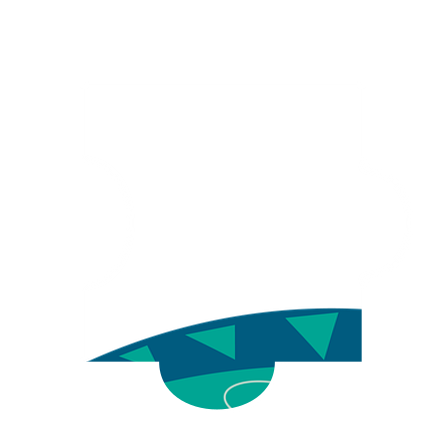
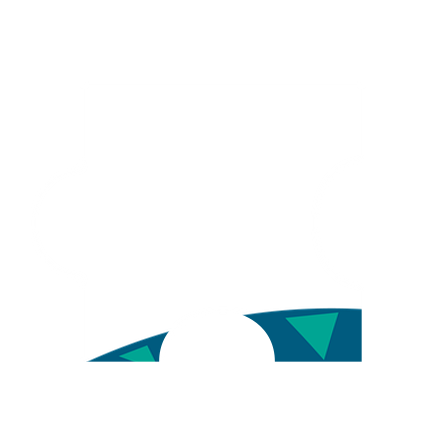
Go ahead

Changed region(s): [[0.3594, 0.7189, 0.659, 0.9585]]

diff --git a/App.tsx b/App.tsx
@@ -7,7 +7,7 @@ import {
   ImageSourcePropType,
   Text,
   TouchableOpacity,
-  Vibration
+  Vibration,
 } from 'react-native';
 import {
   GestureHandlerRootView,
@@ -24,11 +24,10 @@ import Animated, {
   withTiming,
   interpolate,
   withSequence,
-  // --- CAMBIO (Stagger/Lag): Importar 'withDelay' ---
   withDelay,
 } from 'react-native-reanimated';
 import LinearGradient from 'react-native-linear-gradient';
-import ConfettiCannon from 'react-native-confetti-cannon'; // Importar Confeti
+import ConfettiCannon from 'react-native-confetti-cannon';
 
 // --- (Carga de Assets: Dinámica) ---
 import * as LevelAssets from './assets/puzzles/mundo1/nivel1/level.assets.js';
@@ -82,7 +81,7 @@ const shuffleArray = (array: any[]) => {
   return newArray;
 };
 
-// --- (Componente PuzzlePiece: Sin cambios) ---
+// --- (Componente PuzzlePiece: CON BUGFIX DEL REGRESO) ---
 interface PuzzlePieceProps {
   piece: PieceDataWithLayout;
   isPlaced: boolean;
@@ -119,7 +118,10 @@ const PuzzlePiece: React.FC<PuzzlePieceProps> = ({
   const rotate = useSharedValue('0deg');
   const glow = useSharedValue(0); 
   const isSnapped = useSharedValue(isPlaced);
-   const shake = useSharedValue(0); // <-- AÑADE ESTA LÍNEA
+  const shake = useSharedValue(0); 
+  
+  // --- BUGFIX DEL REGRESO: Nuevo estado para el "limbo" de regreso ---
+  const isReturning = useSharedValue(false);
 
   useEffect(() => {
     if (isPlaced) {
@@ -129,7 +131,8 @@ const PuzzlePiece: React.FC<PuzzlePieceProps> = ({
       rotate.value = withSpring('0deg');
       isSnapped.value = true; 
     } else {
-      if (!isDragging.value) {
+      // Si no estamos arrastrando Y no estamos volviendo... resetea
+      if (!isDragging.value && !isReturning.value) {
         position.value = withSpring({ x: initialX, y: initialY });
         scale.value = withSpring(stripScale);
         zIndex.value = 10;
@@ -152,6 +155,7 @@ const PuzzlePiece: React.FC<PuzzlePieceProps> = ({
     rotate,
     glow,
     isSnapped,
+    isReturning, // <-- Añadir dependencia
   ]);
 
   const gesture = Gesture.Pan()
@@ -183,6 +187,7 @@ const PuzzlePiece: React.FC<PuzzlePieceProps> = ({
         Math.pow(finalX - targetX, 2) + Math.pow(finalY - targetY, 2),
       );
       if (dist < SNAP_THRESHOLD) {
+        // ... (Lógica de Snap, sin cambios)
         isSnapped.value = true; 
         position.value = withSpring({ x: targetX, y: targetY });
         zIndex.value = 1;
@@ -198,42 +203,63 @@ const PuzzlePiece: React.FC<PuzzlePieceProps> = ({
           withTiming(0, { duration: 300 })
         );
       } else {
-         // --- NUEVO: Feedback SECUENCIAL (Vibrar, LUEGO regresar) ---
-        
-      
-        
+        // --- BUGFIX DEL REGRESO (CON SINTAXIS CORREGIDA) ---
         runOnJS(Vibration.vibrate)(100);
-        zIndex.value = 10; 
+        zIndex.value = 10;
+        isReturning.value = true; // 1. Activa el modo "regresando"
 
         const SHAKE_AMOUNT = 10;
         const SHAKE_DURATION = 60;
         
-        shake.value = withSequence(
-          // ...las primeras 3 animaciones del shake...
-          withTiming(-SHAKE_AMOUNT, { duration: SHAKE_DURATION }),
-          withTiming(SHAKE_AMOUNT, { duration: SHAKE_DURATION * 2 }),
-          withTiming(-SHAKE_AMOUNT, { duration: SHAKE_DURATION * 2 }),
+        // 2. Tiembla EN EL LUGAR (posición absoluta 'finalX')
+        position.value = withSequence(
+          withTiming({ x: finalX - SHAKE_AMOUNT, y: finalY }, { duration: SHAKE_DURATION }),
+          withTiming({ x: finalX + SHAKE_AMOUNT, y: finalY }, { duration: SHAKE_DURATION * 2 }),
+          withTiming({ x: finalX - SHAKE_AMOUNT, y: finalY }, { duration: SHAKE_DURATION * 2 }),
 
-          // El callback va AQUÍ, como segundo argumento del ÚLTIMO withTiming
-          withTiming(0, { duration: SHAKE_DURATION }, () => {
-            'worklet'; 
-            // Esto se ejecuta CUANDO TERMINA EL SHAKE
-            position.value = withSpring({ x: initialX, y: initialY }, { damping: 25, stiffness: 180 });
-            scale.value = withSpring(stripScale);
-          })
-          // El callback NO va aquí afuera
-        );
-        // --- FIN DE LA CORRECCIÓN ---
+        withTiming({ x: finalX, y: finalY }, { duration: SHAKE_DURATION }, () => {
+              'worklet'; 
+              const visualReturnX = initialX - scrollX.value;
+              
+              // 5. Anima al destino VISUAL
+              position.value = withSpring(
+                { x: visualReturnX, y: initialY }, 
+                { damping: 15, stiffness: 120 },
+
+                // --- CORRECCIÓN DE LINTER ---
+                // Ahora usamos el argumento 'finished'
+                (finished) => {
+                  'worklet';
+                  // Solo resetea el estado si la animación terminó con éxito
+                  if (finished) { 
+                   // --- CORRECCIÓN DE TIPO ---
+                    // position.value debe ser un objeto {x, y}
+                    position.value = { x: initialX, y: initialY };
+                    // --- FIN DE CORRECCIÓN ---
+                    isReturning.value = false;
+                  }
+                }
+                // --- FIN DE LA CORRECCIÓN ---
+              );
+              // 9. Encoge la pieza AL MISMO TIEMPO
+              scale.value = withSpring(stripScale);
+            }) 
+          ); 
       }
     });
 
   const animatedStyle = useAnimatedStyle(() => {
+    // --- BUGFIX DEL REGRESO: Lógica de displayX actualizada ---
+    // La pos es absoluta SI: arrastramos, está embonada, O está regresando.
     const displayX = 
-      isDragging.value || isSnapped.value 
+      isDragging.value || isSnapped.value || isReturning.value
         ? position.value.x
         : position.value.x - scrollX.value;
+    // --- FIN DEL BUGFIX ---
+        
     const displayY = position.value.y;
- const shakeOffset = shake.value;
+    const shakeOffset = shake.value;
+
     return {
       position: 'absolute',
       width: layout.pieceAssetRenderSize,
@@ -242,7 +268,7 @@ const PuzzlePiece: React.FC<PuzzlePieceProps> = ({
       transform: [
         { translateX: displayX },
         { translateY: displayY },
-         { translateX: shakeOffset },
+        { translateX: shakeOffset }, 
         { scale: scale.value },
         { rotate: rotate.value },
       ],
@@ -272,18 +298,15 @@ const PuzzlePiece: React.FC<PuzzlePieceProps> = ({
   );
 };
 
-// --- (Componente App: Con cambios para escalonar animación) ---
+// --- (Componente App: Sin cambios) ---
 const App: React.FC = () => {
   const { width: screenWidth, height: screenHeight } = useWindowDimensions();
   const isTablet = screenWidth > 768;
   const [shuffleSeed, setShuffleSeed] = useState(0);
   const stripScrollViewRef = useRef<Animated.ScrollView>(null);
-  
-  // --- CAMBIO (Stagger/Lag): Nuevo estado para el confeti ---
   const [showConfetti, setShowConfetti] = useState(false);
 
   const boardLayout = useMemo((): BoardLayout => {
-    // ... (sin cambios)
     const { gridSize, imageAspectRatio } = puzzleData;
     const stripHeight = isTablet ? 150 : 120;
     const boardPadding = 20;
@@ -319,7 +342,6 @@ const App: React.FC = () => {
   }, [screenWidth, screenHeight, isTablet]);
 
   const pieceData = useMemo((): PieceDataWithLayout[] => {
-    // ... (sin cambios)
     if (!boardLayout) return [];
     const pieceOffset = boardLayout.pieceSizeOnScreen * 0.25;
     const unscaledAssetSize = boardLayout.pieceAssetRenderSize;
@@ -369,7 +391,6 @@ const App: React.FC = () => {
       : 0;
 
   const onPiecePlaced = (id: string) => {
-    // ... (sin cambios)
     const newPlacedIds = new Set(placedPieceIds);
     newPlacedIds.add(id);
     setPlacedPieceIds(newPlacedIds);
@@ -412,26 +433,19 @@ const App: React.FC = () => {
     );
   };
 
-  // --- CAMBIO (Stagger/Lag): 'useEffect' modificado ---
   useEffect(() => {
     if (allPiecesPlaced) {
-      // Retrasamos las animaciones de victoria para dar tiempo al "glow"
-      const DELAY_MS = 500; // Medio segundo
-
-      // 1. Animar los valores del UI Thread (banner y fondo) con retraso
+      const DELAY_MS = 500; 
       winAnimation.value = withDelay(DELAY_MS, withTiming(1, { duration: 600 }));
       backgroundOpacity.value = withDelay(DELAY_MS, withTiming(1.0, { duration: 1200 }));
-      
-      // 2. Activar el confeti (JS Thread) después del retraso
       setTimeout(() => {
         setShowConfetti(true);
       }, DELAY_MS);
 
     } else {
-      // Si no están todas puestas (ej. al reiniciar), ocultamos el confeti
       setShowConfetti(false);
     }
-  }, [allPiecesPlaced, winAnimation, backgroundOpacity]); // 'allPiecesPlaced' es el trigger
+  }, [allPiecesPlaced, winAnimation, backgroundOpacity]);
 
   const handleResetLevel = () => {
     winAnimation.value = withTiming(0, { duration: 300 });
@@ -439,12 +453,9 @@ const App: React.FC = () => {
     setShuffleSeed((s) => s + 1);
     backgroundOpacity.value = withTiming(0.3, { duration: 300 });
     glowAnimation.value = 0;
-    // (no necesitamos resetear showConfetti aquí, el useEffect anterior lo hará)
   };
 
-  // --- (Estilos Animados: Sin cambios) ---
   const animatedWinStyle = useAnimatedStyle(() => {
-    // ... (sin cambios)
     const opacity = winAnimation.value;
     const translateY = interpolate(winAnimation.value, [0, 1], [30, 0]);
     return {
@@ -464,14 +475,12 @@ const App: React.FC = () => {
   });
   
   const animatedBackgroundStyle = useAnimatedStyle(() => {
-    // ... (sin cambios)
     return {
       opacity: backgroundOpacity.value,
     };
   });
 
   const animatedMainGlowStyle = useAnimatedStyle(() => {
-    // ... (sin cambios)
     const scale = interpolate(glowAnimation.value, [0, 1], [0.8, 1.8]);
     const opacity = interpolate(glowAnimation.value, [0, 0.5, 1], [0, 0.7, 0]);
     return {
@@ -489,10 +498,9 @@ const App: React.FC = () => {
     return <View style={styles.root} />;
   }
 
-  // --- (Render: Con cambio en Confeti) ---
   return (
     <GestureHandlerRootView style={styles.root}>
-      {/* 1. El Tablero */}
+      {/* ... (Todo el JSX sin cambios) ... */}
       <View
         style={[
           styles.boardContainer,
@@ -510,8 +518,6 @@ const App: React.FC = () => {
           resizeMode="stretch"
         />
       </View>
-
-      {/* 2. La Tira Deslizable */}
       <AnimatedScrollView
         ref={stripScrollViewRef} 
         horizontal
@@ -527,8 +533,6 @@ const App: React.FC = () => {
         contentContainerStyle={{ width: stripContentWidth }}
         showsHorizontalScrollIndicator={false}
       />
-
-      {/* 3. Las Piezas */}
       <View style={StyleSheet.absoluteFill} pointerEvents="box-none">
         {pieceData.map((piece) => (
           <PuzzlePiece
@@ -542,8 +546,6 @@ const App: React.FC = () => {
           />
         ))}
       </View>
-
-      {/* 4. El Resplandor Principal */}
       <Animated.View style={animatedMainGlowStyle}>
         <AnimatedLinearGradient
           colors={['#FFD700', 'rgba(255,215,0,0.5)', 'rgba(255,215,0,0)']}
@@ -552,8 +554,6 @@ const App: React.FC = () => {
           style={styles.mainGlow}
         />
       </Animated.View>
-
-      {/* 5. Contenedor de Victoria Animado */}
       <Animated.View style={animatedWinStyle}>
         <Text style={styles.winTitle}>¡Felicidades!</Text>
         <View style={isTablet ? styles.buttonsRow : styles.buttonsColumn}>
@@ -572,7 +572,6 @@ const App: React.FC = () => {
         </View>
       </Animated.View>
 
-      {/* --- CAMBIO (Stagger/Lag): Confeti renderizado por estado --- */}
       {showConfetti && (
         <ConfettiCannon
           count={200}
@@ -581,7 +580,7 @@ const App: React.FC = () => {
           explosionSpeed={400}
           fallSpeed={3000}
           fadeOut={true}
-        
+          // Quitamos el 'style' que daba error
         />
       )}
 
